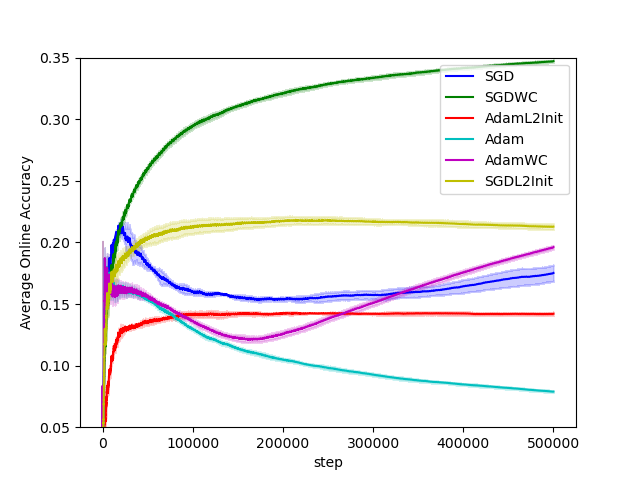
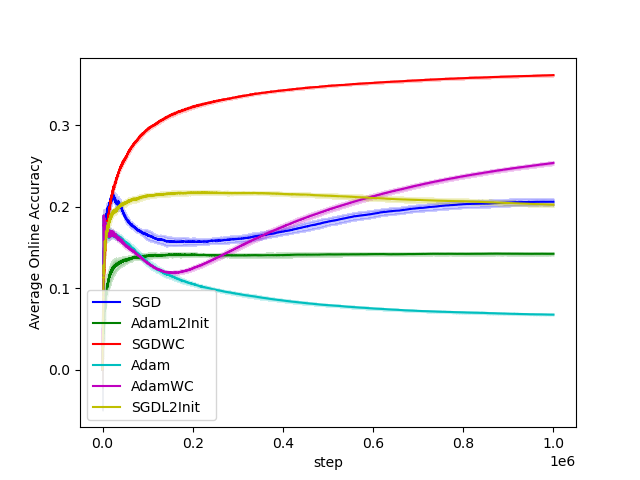
Expended tasks of LP MINI-ImageNet from 200 to 400

diff --git a/README.md b/README.md
@@ -117,4 +117,4 @@ class Permutation:
   - I trained **200 tasks** (steps = **200** tasks × **2,500** permutation-interval).
 
 - **Label-permuted mini-ImageNet**
-  - I trained **200 tasks** (steps = **200** tasks × **2,500** permutation-interval).
+  - I trained **400 tasks** (steps = **200** tasks × **2,500** permutation-interval).
